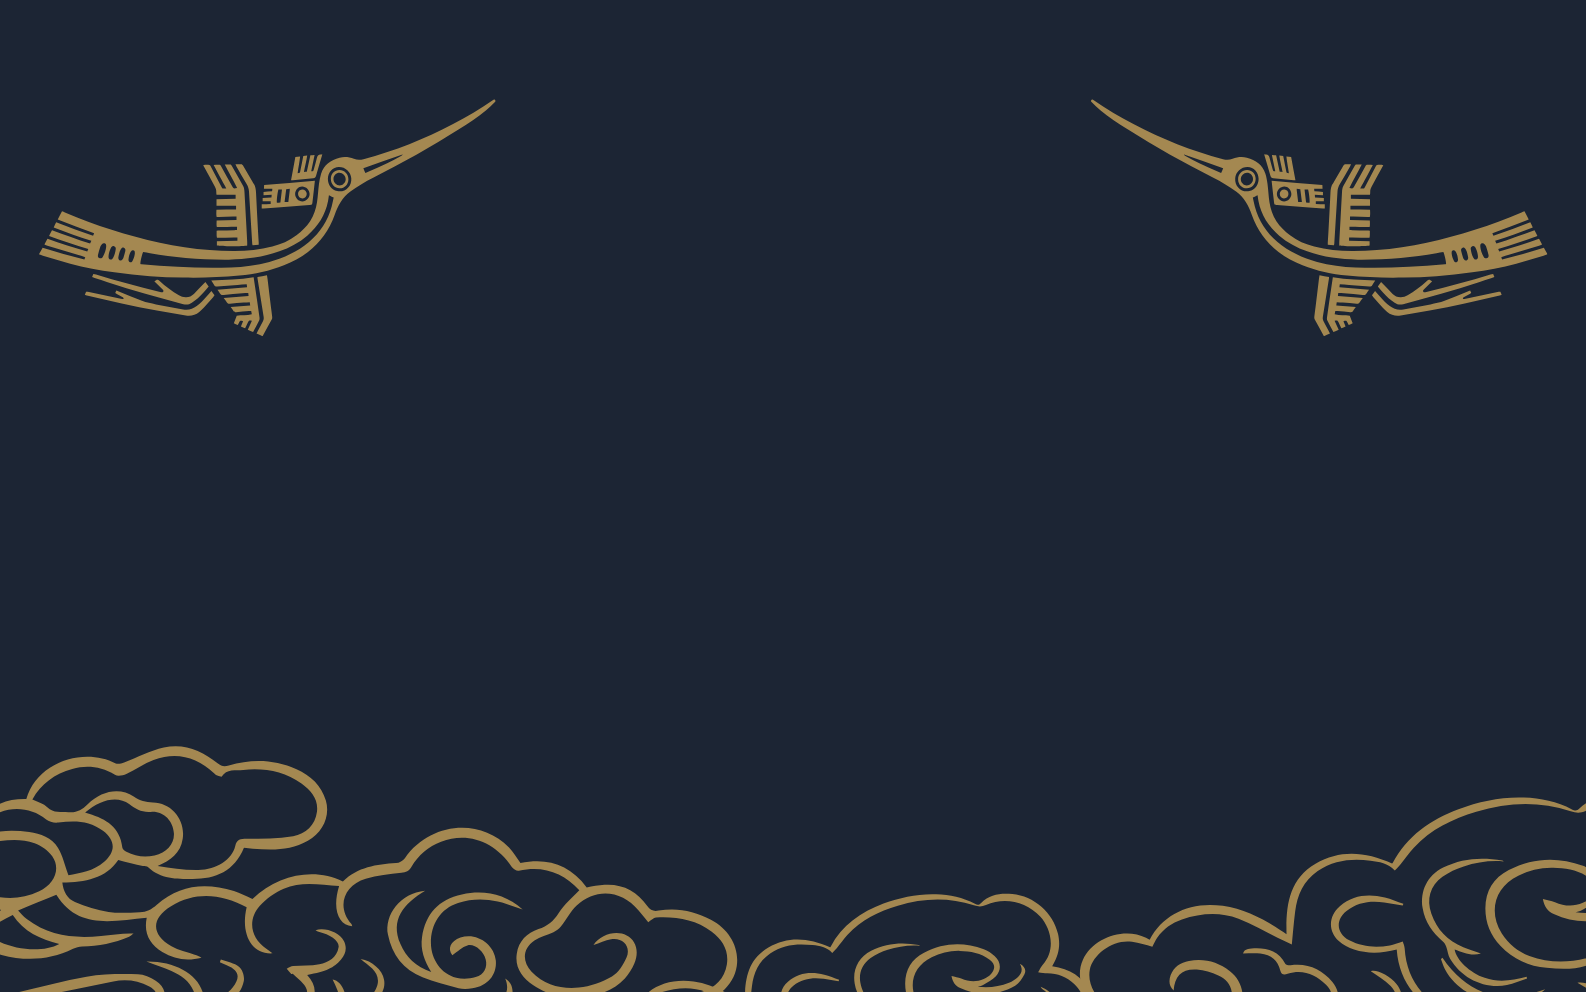
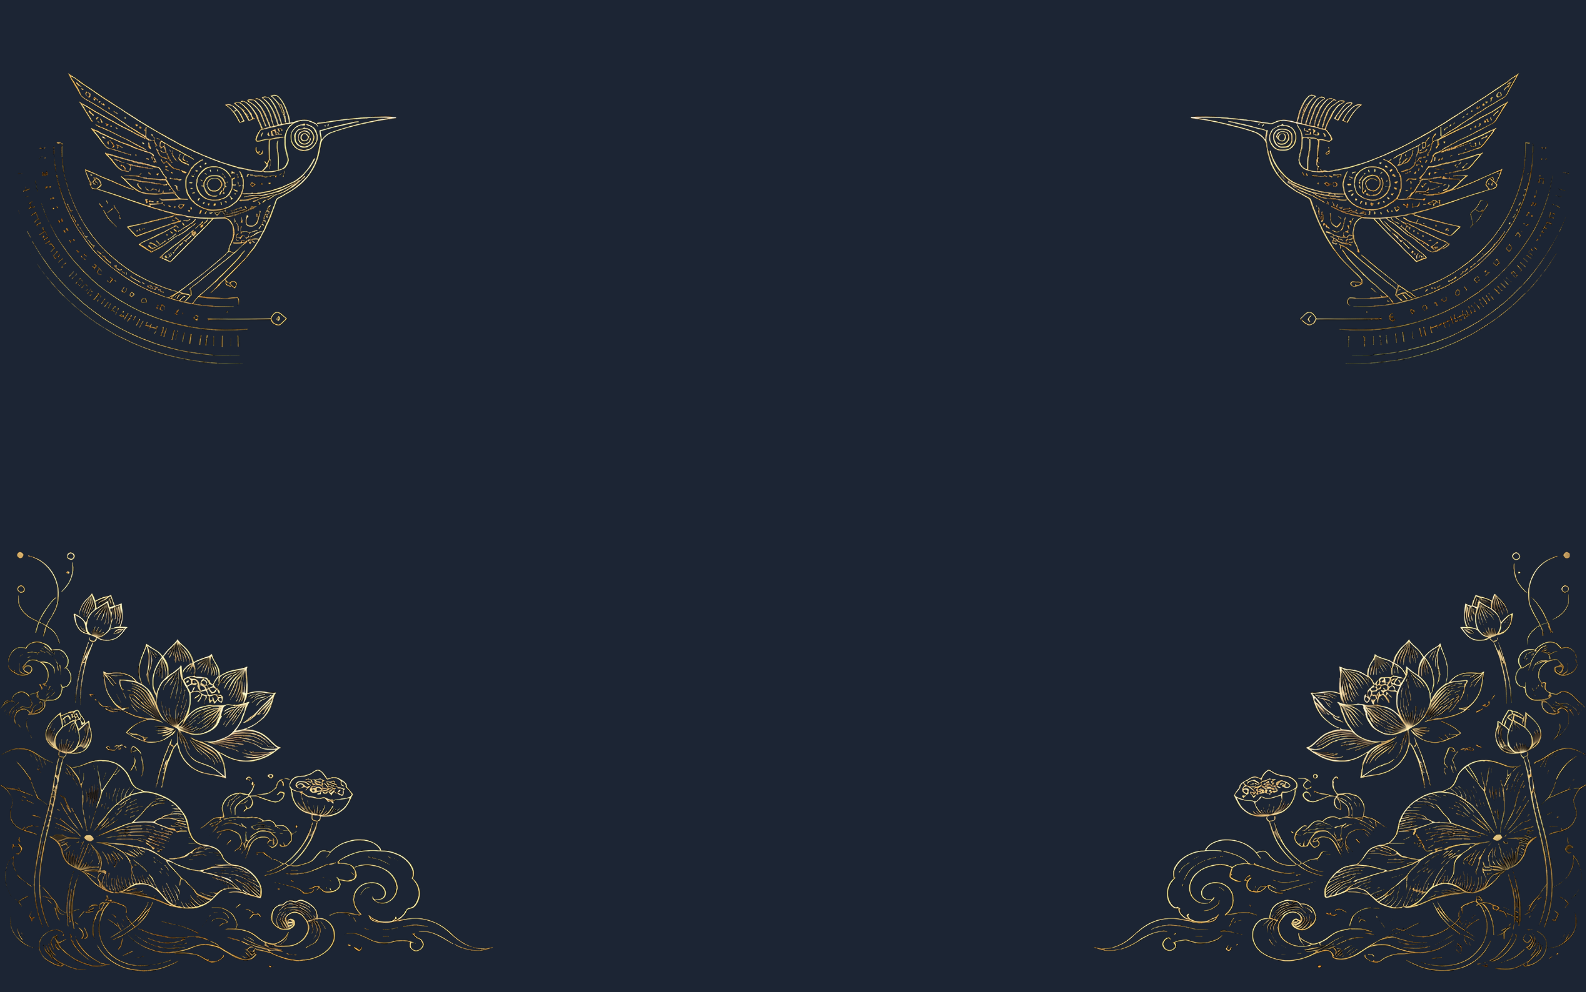
push

diff --git a/src/components/about.tsx b/src/components/about.tsx
@@ -447,7 +447,31 @@ export function About() {
       </div>
 
       {/* ════════ ACT 4 · The name — Vietnam Z-DNA ════════ */}
-      <div className="relative mx-auto max-w-6xl px-5 py-24 sm:px-8 sm:py-32">
+      <div className="relative flex min-h-svh flex-col items-center justify-center overflow-hidden px-5 py-24 text-center sm:px-8 sm:py-32">
+        {/* Pixel Việt Nam skyline + constellation map (about4.png). Its base is
+            ink-navy (#1c2534) — all but identical to the section's bg-ink — so
+            the seams need no heavy banding. The city sits along the bottom edge
+            (object-bottom); the dotted map fills the sky behind the name. */}
+        <div
+          aria-hidden
+          className="pointer-events-none absolute inset-0 -z-10 overflow-hidden"
+        >
+          <Image
+            src="/general/about4.png"
+            alt=""
+            fill
+            unoptimized
+            sizes="100vw"
+            className="pixelated object-cover object-bottom"
+          />
+          {/* Top fades from ink to meet Act 3's ink bottom; the BOTTOM is left
+              un-faded so the skyline stays crisp and its navy waterline runs
+              straight into the bg-ink gap below (ink ≈ ink-navy). A soft centre
+              scrim lifts the name + body copy off the dotted map lines. */}
+          <div className="absolute inset-0 [background:linear-gradient(to_bottom,var(--color-ink)_0%,transparent_20%,transparent_100%)]" />
+          <div className="absolute inset-0 [background:radial-gradient(55%_38%_at_50%_36%,rgba(15,20,32,0.5)_0%,transparent_70%)]" />
+        </div>
+
         <span className="s-rise block text-center font-pixel text-sm uppercase tracking-[0.4em] text-cream/60">
           Đó cũng là ý nghĩa cái tên
         </span>

diff --git a/src/components/site-nav.tsx b/src/components/site-nav.tsx
@@ -49,6 +49,19 @@ export function SiteNav() {
     return () => io.disconnect();
   }, []);
 
+  // Reflect the section you're reading in the browser tab title. The static
+  // metadata title (layout.tsx) is only the SSR/first-paint default — it never
+  // changes on its own, which is why the tab stayed frozen on one name. This
+  // swaps document.title live as the scrollspy `active` section changes.
+  useEffect(() => {
+    const labels: Record<string, string> = {
+      ...Object.fromEntries(SECTIONS.map((s) => [s.id, s.label])),
+      top: "Vietnam Z-DNA Technology", // home: show the brand, not "Trang chủ"
+      contact: "Liên hệ",
+    };
+    document.title = `VNZ — ${labels[active] ?? "Vietnam Z-DNA Technology"}`;
+  }, [active]);
+
   const onDark = scrolled || open;
 
   return (

diff --git a/src/app/layout.tsx b/src/app/layout.tsx
@@ -48,9 +48,9 @@ const vt323 = VT323({
 });
 
 export const metadata: Metadata = {
-  title: "VNZ — Meet Our Team",
+  title: "VNZ — Vietnam Z-DNA Technology",
   description:
-    "Vietnamese minds, global solutions. Meet the players building great things together.",
+    "VNZ — Vietnam Z-DNA Technology. Một thế hệ người Việt làm chủ công nghệ, tạo ra giá trị và ghi dấu ấn trên bản đồ công nghệ thế giới.",
 };
 
 export default function RootLayout({